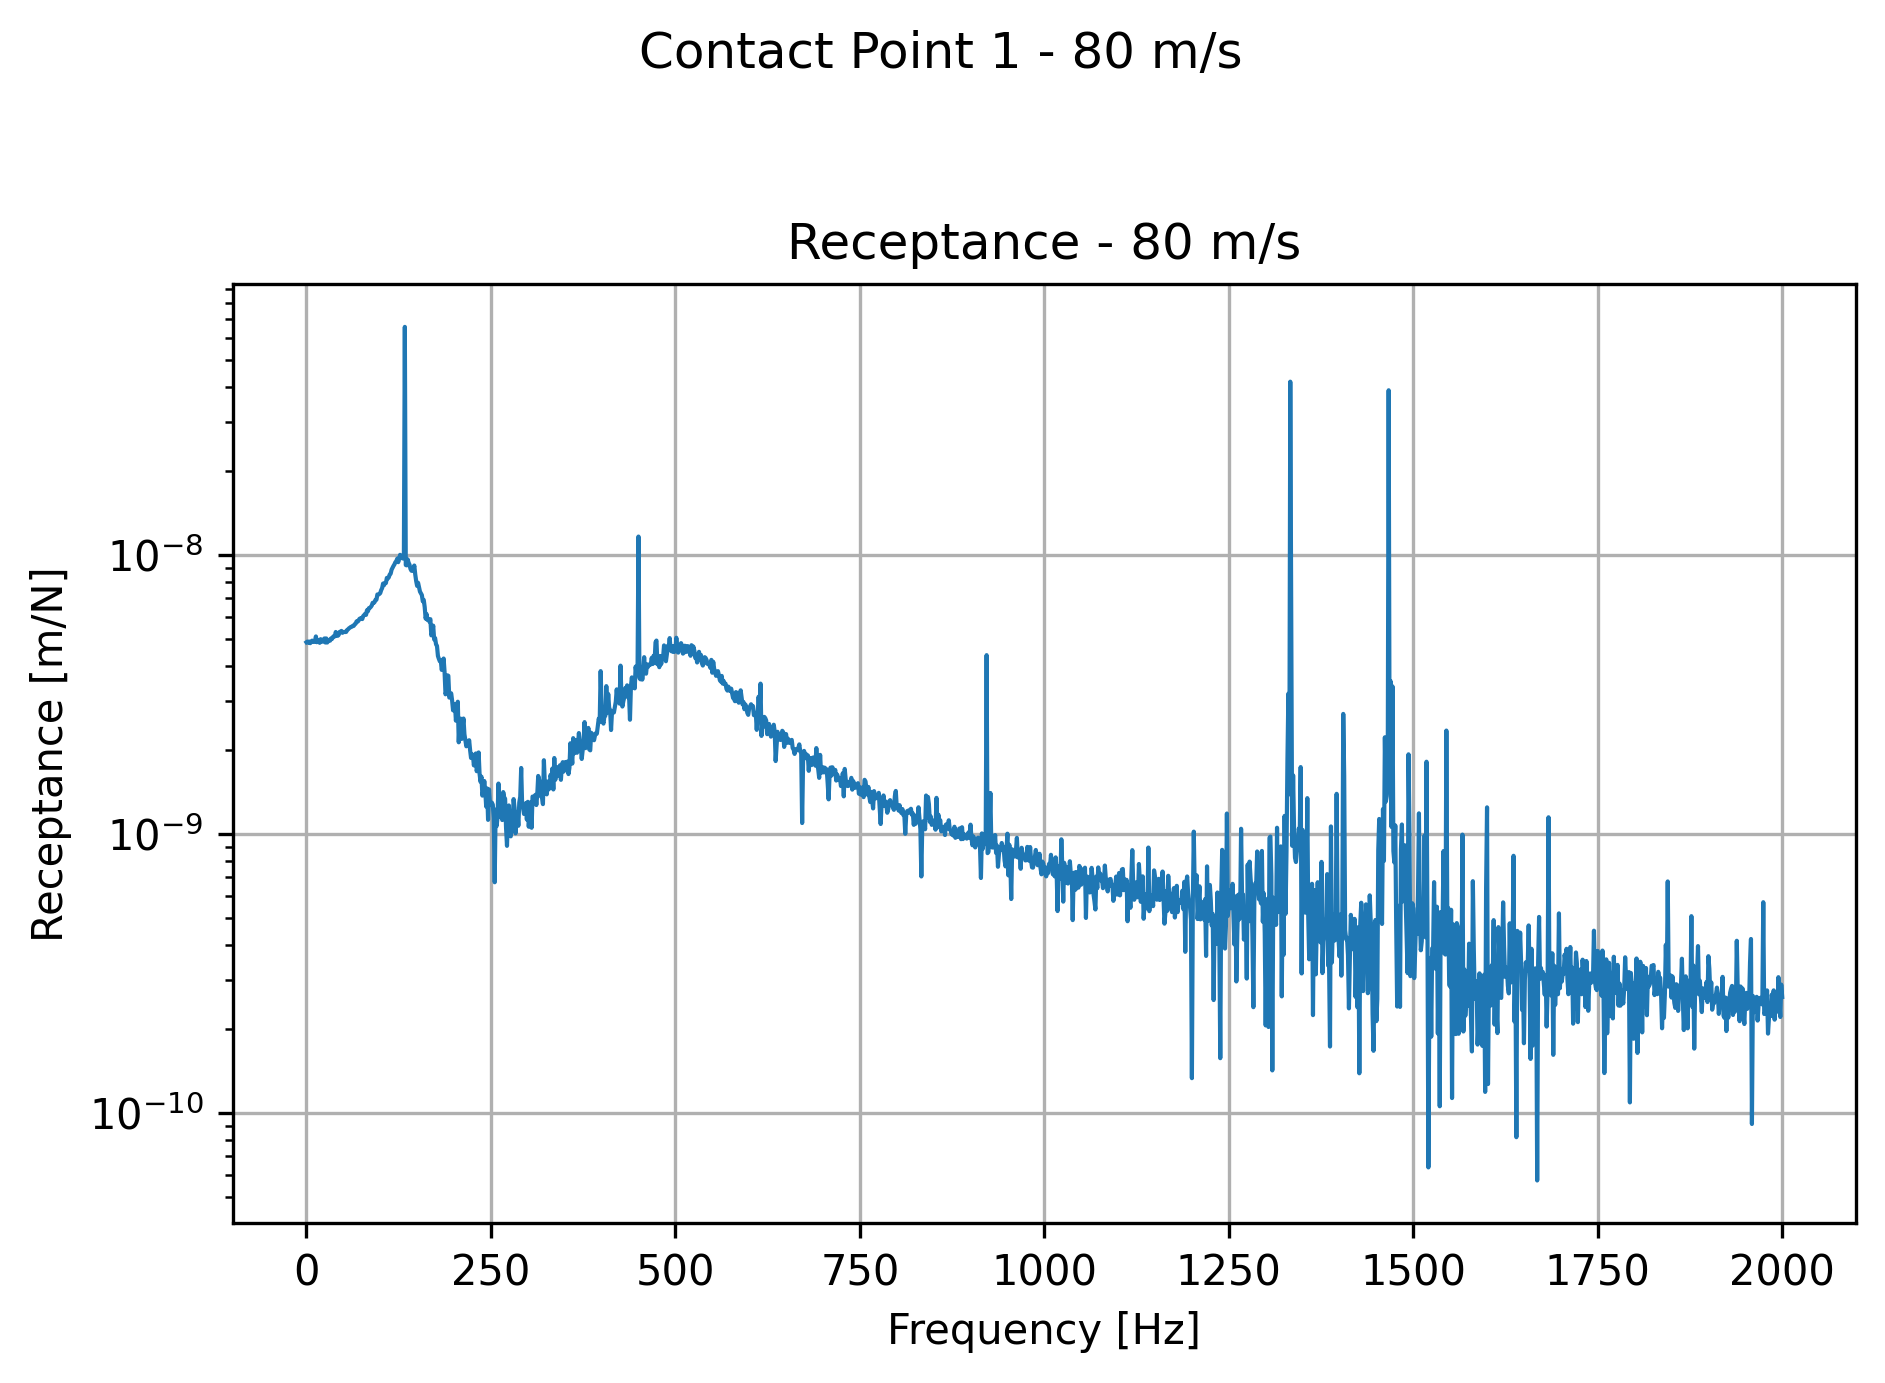
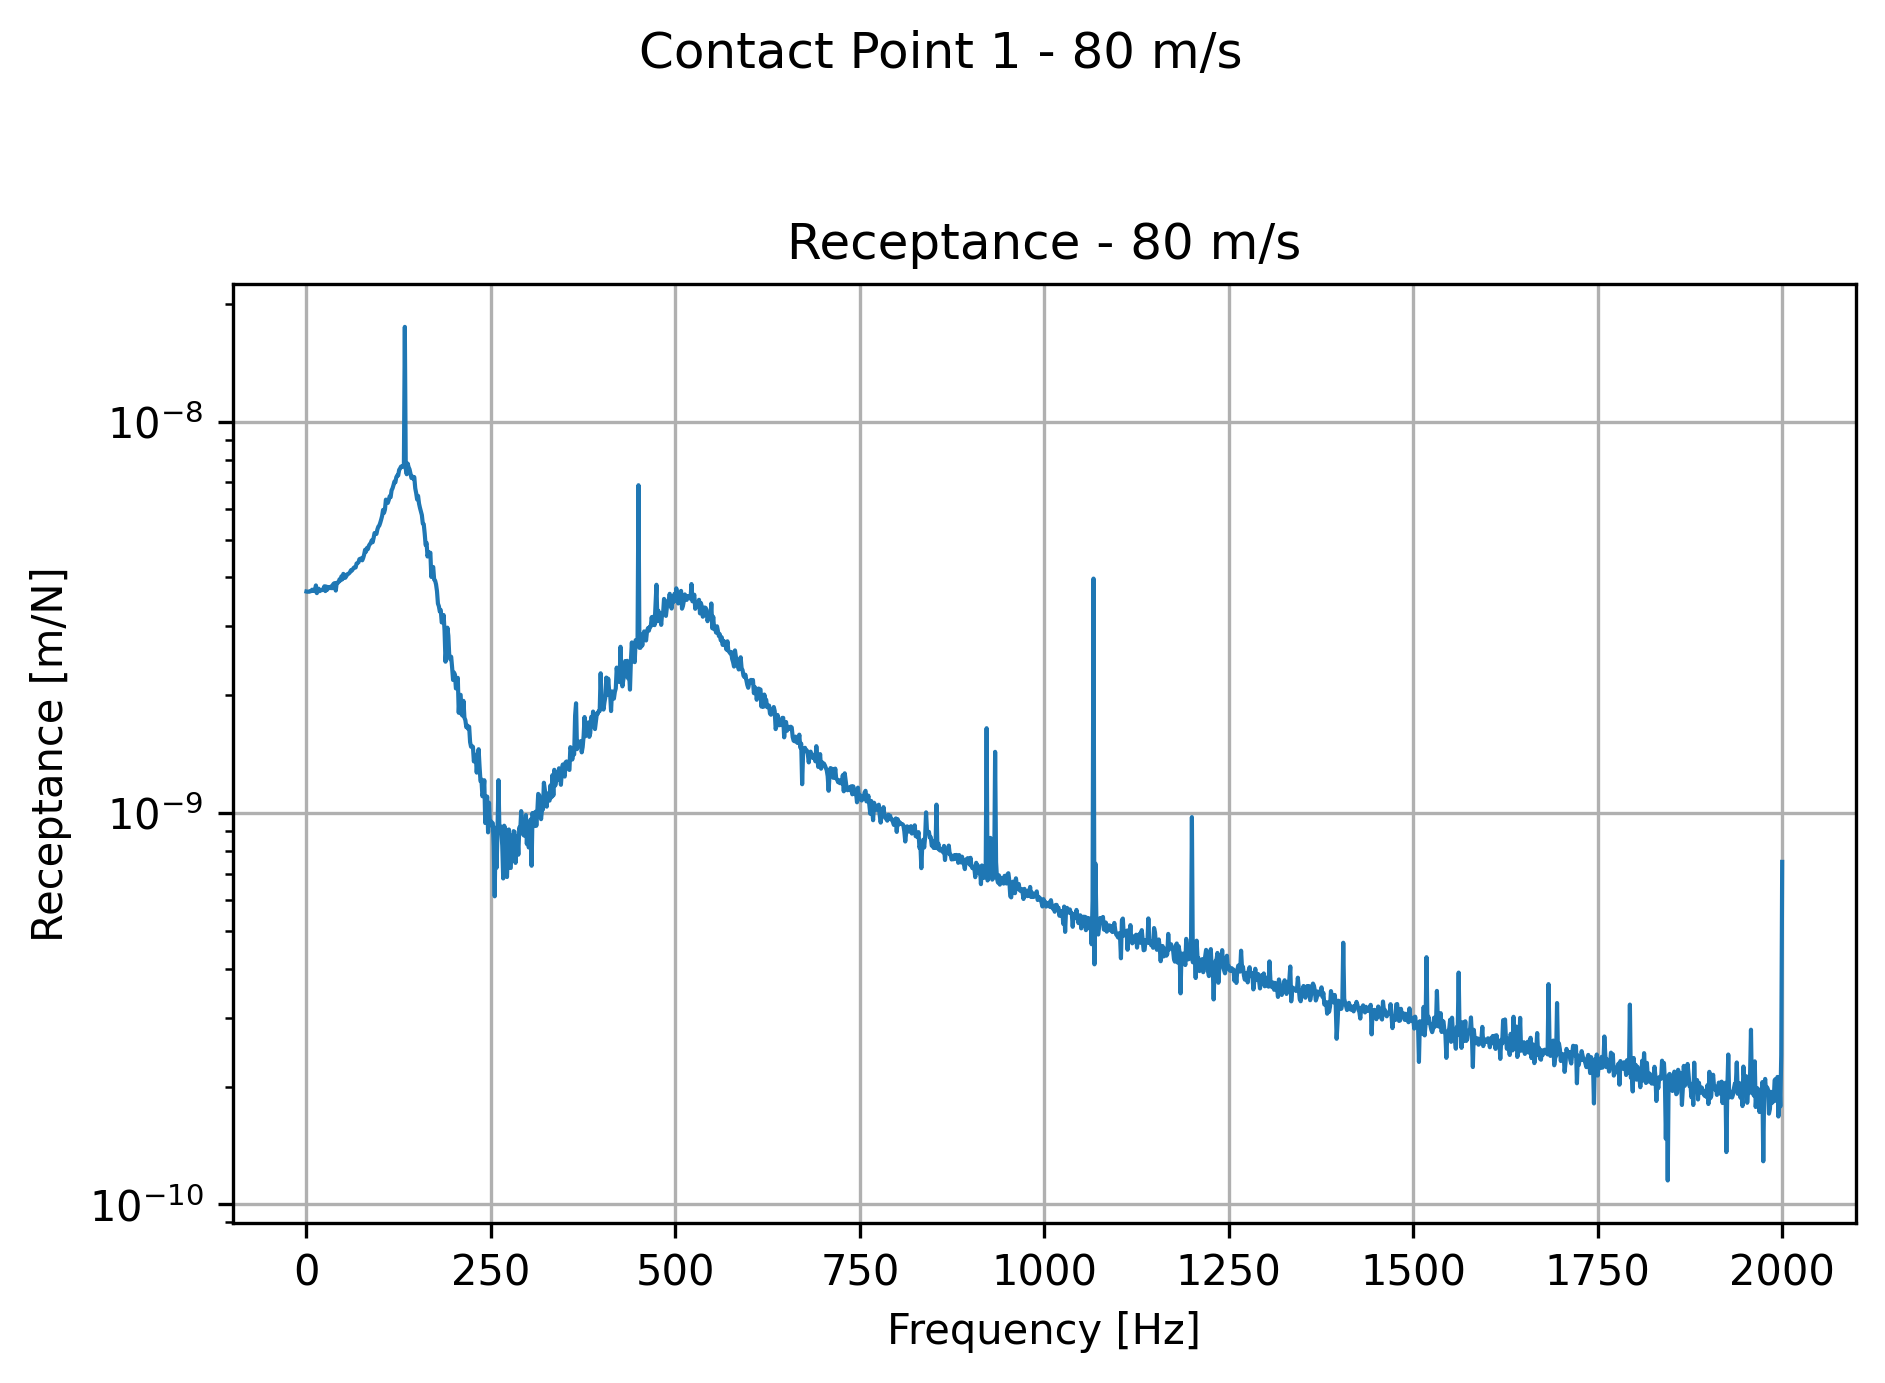
E changed cleanest result yet

diff --git a/Moving_Force.py b/Moving_Force.py
@@ -40,6 +40,7 @@ num_mount           = 400       # Number of discrete mounting positions
 l_bound             = 40.0      # width of boundary domain
 req_simt            = 1         # Required simulation time [s]
 dt                  = 2.2e-5      # time step [s]
+# velocities          = [60]      # Velocities to simulate [m/s]
 velocities          = [25, 60, 80]      # Velocities to simulate [m/s]
 # velocities          = np.arange(5, 101, 5)  # 5 to 100 m/s in 5 m/s steps
 ramp_fraction       = 0.1       # fraction of total time for ramp up
@@ -50,8 +51,8 @@ force_amplitude     = 65000.0    # Force amplitude [N]
 # =============================================================================
 # Create a ballasted single rail track model with periodic supports
 track = SimplePeriodicBallastedSingleRailTrack(
-    # rail    = NORDBORG, # rail profile with parameters according to Nordborg paper
-    rail        = UIC60,   # UIC60 rail profile
+    rail    = NORDBORG, # rail profile with parameters according to Nordborg paper
+    # rail        = UIC60,   # UIC60 rail profile
     pad     = DiscrPad(
                 sp = [300e6, 0],    # Pad Stiffness [N/m]
                 dp = [18000, 0],     # Pad Damping [Ns/m]

diff --git a/rolland/database/rail/db_rail.py b/rolland/database/rail/db_rail.py
@@ -38,24 +38,10 @@ def load_rail_geo(file_path):
 
 NORDBORG = Rail(
     rl_geo=load_rail_geo(os.path.join(os.path.dirname(__file__), 'UIC60.csv')),
-    E=210e11,
-    G=81e9,
-    nu=0.3,
-    kap=[0.4, 0.54],
+    E=840e9,
     mr=60,
-    rho=7850,
     etar=0.004,
-    fresr=1000,
-    dr=1000,
-    gamr=[0.0, 0.0],
-    epsr=[0.0, 34.8 * 10**-3],
-    Iyr=3038.30e-8,
-    Izr=512.30e-8,
-    Itr=209.20e-8,
-    Ipr=3550.60e-8,
-    Ar=76.70e-4,
-    Asr=0.688,
-    Vr=7670.00e-6,
+    Iyr=22.5e-6,
 )
 
 UIC60 = Rail(
